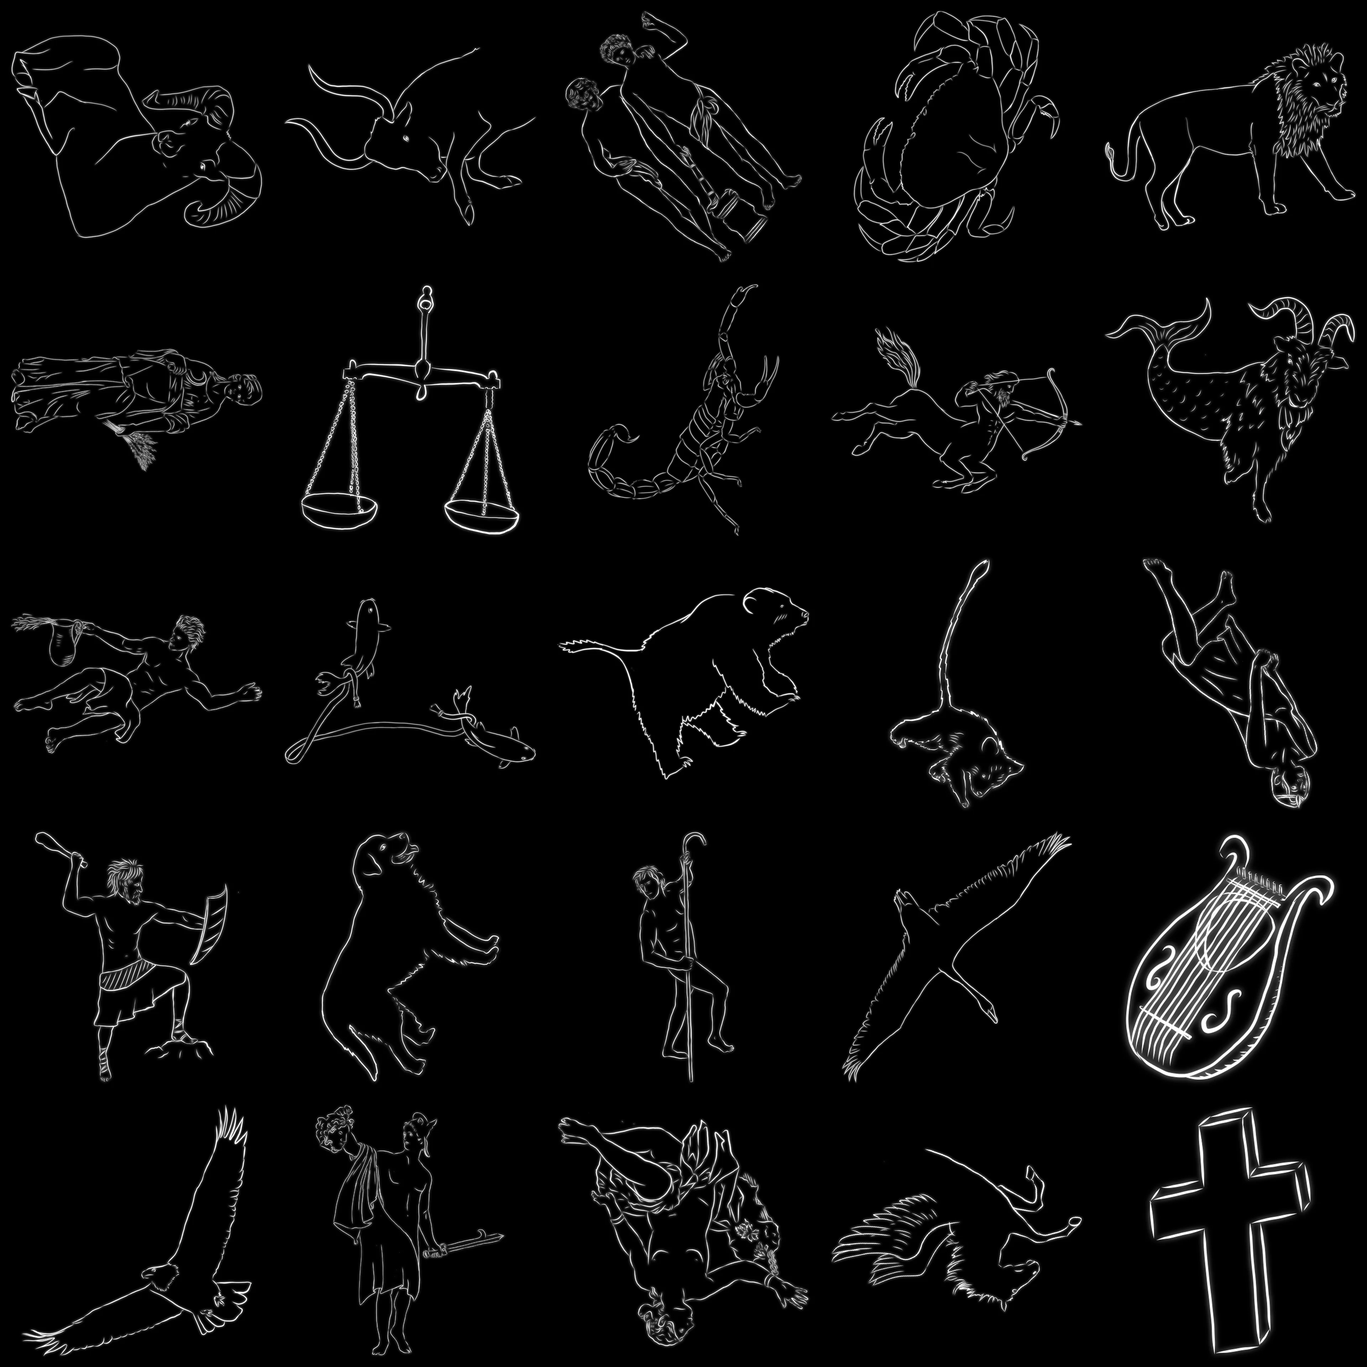
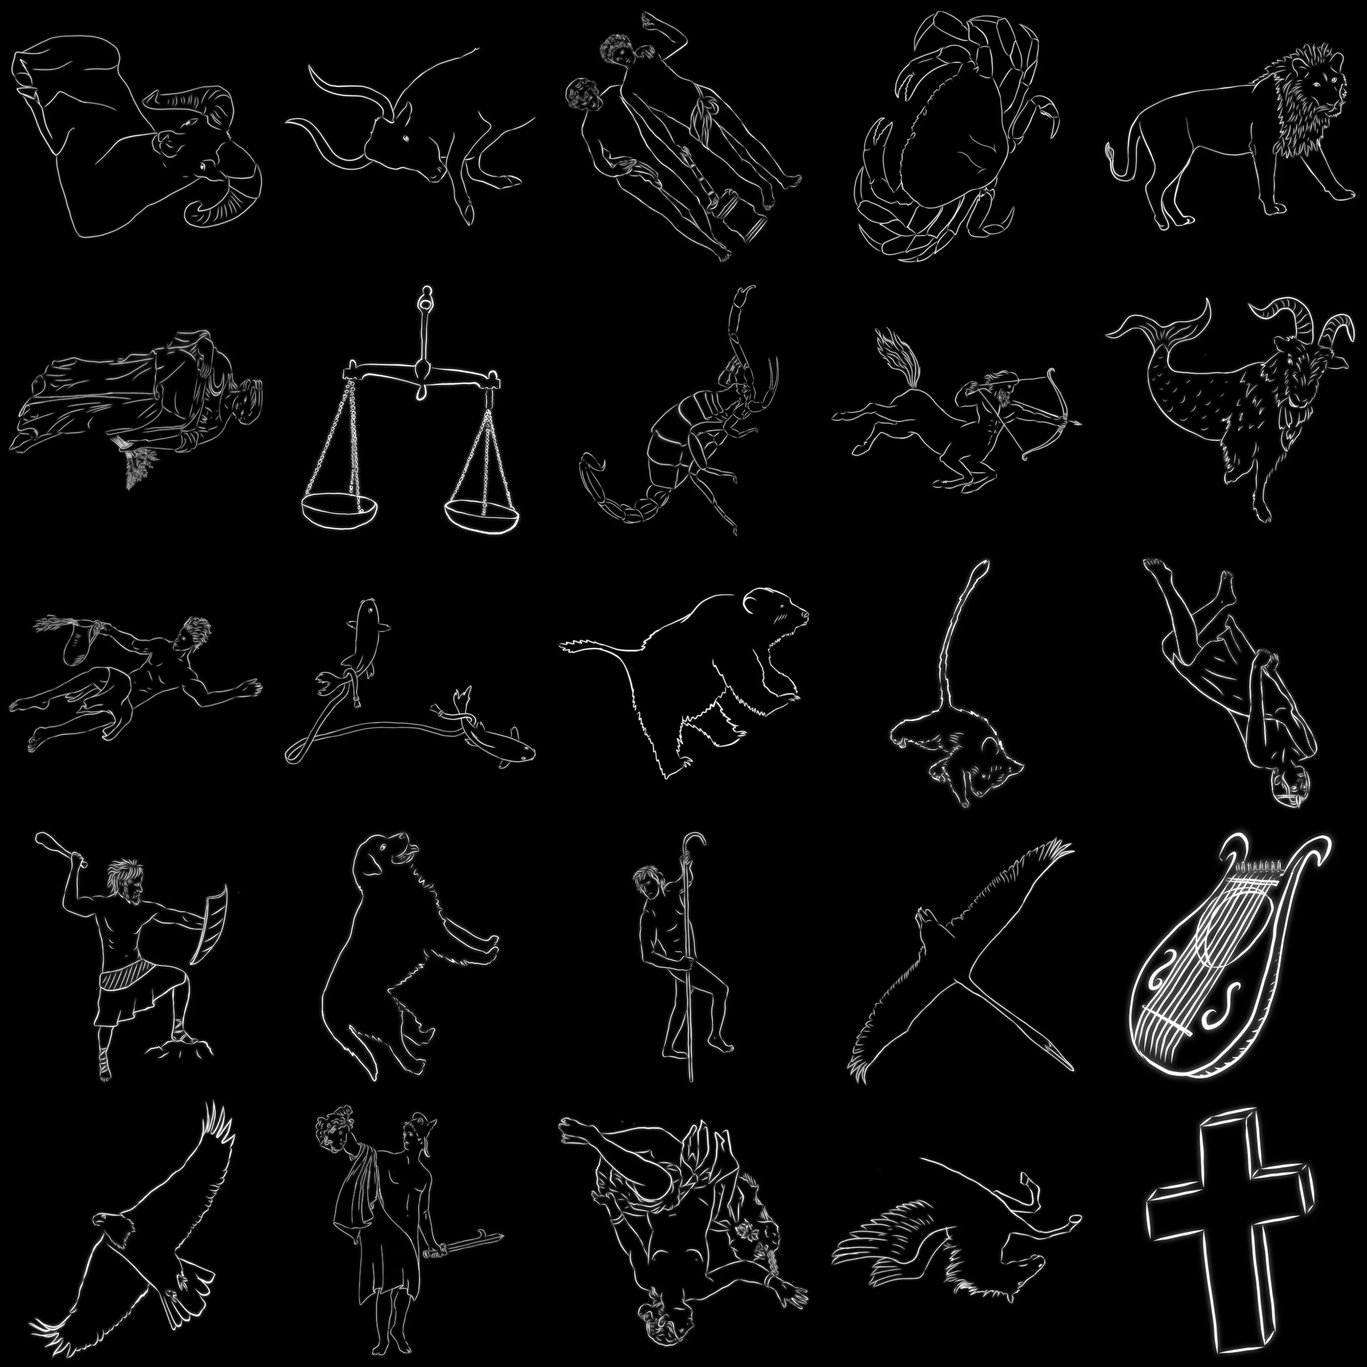
feat(sky): hand-match eight of Hedberg's figures to their stars, keeping the drawings (#127)
'so many are just off', and 'I really prefer the current set.' Measured figure by figure, the ones that were off were off because the drawings' proportions are not the sky's -- a short-necked swan, a tail that curls back, wings three times too long -- and no placement fixes a proportion. So those figures are matched by hand: scripts/figure-matching.json names landmarks on each drawing and the star each must sit on, and the build applies a thin-plate spline that moves the landmarks and bends the rest of the drawing with them, with pins holding what already sits right and the crop following the reshaped ink.

Scorpius 0.68 to 0.28 degrees with the sting on Shaula; Cygnus 2.04 to 0.47 with Deneb at the tail and Albireo at the beak; Aquila's Altair from 1.34 to 0.09 at the head; Virgo, Crux, Lyra, Aquarius and Pegasus likewise. Seventeen figures were checked by anatomy and left alone. Every match prints its largest local stretch and the build refuses one over x3.5. The Bayer parser now keeps names with an inner space, 'Mu 1Sco', which it used to drop.

diff --git a/site/src/data/figures.js b/site/src/data/figures.js
@@ -11,9 +11,11 @@
 // The galactic conversion, GLM's Euler convention, the plane maths
 // and the crop all happened in the build script, where they could
 // be checked against this app's own star catalogue. The atlas stores
-// the ink as brightness on black; the app draws it additively.
+// the ink as brightness on black; the app draws it additively. Some
+// drawings are hand-matched to their stars (see figure-matching.json):
+// their tiles are reshaped and their corners follow the reshaped ink.
 //
 // Artwork: James Hedberg (CUNY-CCNY), CC BY 4.0.
 export const FIGURE_TILE = 768;
 export const FIGURE_COLS = 5;
-export const FIGURES = [{"a":"Ari","n":"Aries","i":0,"c":[[0.609548,0.609323,0.64085],[0.840153,0.331852,0.5369],[0.855481,0.47457,0.189954],[0.624876,0.752041,0.293905]]},{"a":"Tau","n":"Taurus","i":1,"c":[[0.070456,0.859002,0.585838],[0.607533,0.740666,0.604807],[0.659568,0.892455,0.078435],[0.122491,1.010791,0.059466]]},{"a":"Gem","n":"Gemini","i":2,"c":[[-0.408998,0.691031,0.577213],[-0.076036,0.903095,0.632868],[-0.106459,1.048004,0.262722],[-0.439421,0.83594,0.207067]]},{"a":"Cnc","n":"Cancer","i":3,"c":[[-0.726669,0.530032,0.621825],[-0.278863,0.856476,0.546848],[-0.436893,0.952024,0.019009],[-0.884698,0.62558,0.093986]]},{"a":"Leo","n":"Leo","i":4,"c":[[-0.951124,0.021242,0.646291],[-0.685115,0.554686,0.534228],[-0.909218,0.548046,-0.029346],[-1.175228,0.014602,0.082717]]},{"a":"Vir","n":"Virgo","i":5,"c":[[-0.780463,-0.75377,0.308102],[-0.945147,0.076184,0.349344],[-1.038294,0.099526,-0.492335],[-0.873611,-0.730428,-0.533577]]},{"a":"Lib","n":"Libra","i":6,"c":[[-0.491927,-0.852549,-0.145956],[-0.776682,-0.632606,-0.133503],[-0.743482,-0.569641,-0.486418],[-0.458728,-0.789584,-0.498871]]},{"a":"Sco","n":"Scorpius","i":7,"c":[[0.04317,-1.060836,-0.165577],[-0.67988,-0.948342,-0.13999],[-0.644872,-0.579662,-0.771622],[0.078178,-0.692156,-0.79721]]},{"a":"Sgr","n":"Sagittarius","i":8,"c":[[0.646114,-0.969303,-0.357703],[0.07328,-0.996382,-0.189059],[-0.086223,-0.700454,-0.683325],[0.486612,-0.673374,-0.851969]]},{"a":"Cap","n":"Capricornus","i":9,"c":[[0.887475,-0.556537,-0.062794],[0.470739,-0.783712,-0.140459],[0.533606,-0.736815,-0.614967],[0.950342,-0.509639,-0.537302]]},{"a":"Aqr","n":"Aquarius","i":10,"c":[[1.054241,-0.29189,0.148242],[0.775506,-0.80876,0.195666],[0.568691,-0.747532,-0.352582],[0.847426,-0.230662,-0.400005]]},{"a":"Psc","n":"Pisces","i":11,"c":[[0.72837,0.545468,0.630214],[0.962485,-0.220649,0.657842],[1.16155,-0.187793,-0.117918],[0.927435,0.578324,-0.145546]]},{"a":"UMa","n":"Ursa Major","i":12,"c":[[-0.304622,-0.387385,0.982202],[-0.110352,0.491611,0.995506],[-0.907664,0.673527,0.619006],[-1.101935,-0.205469,0.605702]]},{"a":"UMi","n":"Ursa Minor","i":13,"c":[[0.18996,-0.162051,0.985159],[-0.079381,0.131081,1.021494],[-0.374119,-0.132407,0.962373],[-0.104777,-0.425539,0.926039]]},{"a":"Cas","n":"Cassiopeia","i":14,"c":[[0.337297,0.322571,0.971837],[0.321499,-0.11229,0.998673],[0.676879,-0.140688,0.747729],[0.692678,0.294174,0.720893]]},{"a":"Ori","n":"Orion","i":15,"c":[[-0.177642,1.002418,0.322829],[0.422743,1.000812,0.316925],[0.416805,0.988039,-0.283326],[-0.183579,0.989645,-0.277421]]},{"a":"CMa","n":"Canis Major","i":16,"c":[[-0.365301,0.941291,-0.204765],[-0.011543,0.974023,-0.192985],[0.006611,0.903002,-0.540809],[-0.347147,0.87027,-0.552589]]},{"a":"Boo","n":"Bootes","i":17,"c":[[-0.258574,-0.67661,0.809977],[-0.79453,-0.203677,0.888018],[-1.074852,-0.417973,0.261519],[-0.538896,-0.890906,0.183477]]},{"a":"Cyg","n":"Cygnus","i":18,"c":[[0.537655,-0.269177,0.904643],[-0.035308,-0.692135,0.884623],[0.260977,-1.068538,0.357254],[0.833941,-0.64558,0.377275]]},{"a":"Lyr","n":"Lyra","i":19,"c":[[0.201642,-0.697746,0.624327],[0.090319,-0.784296,0.646415],[0.125101,-0.858807,0.529752],[0.236425,-0.772257,0.507664]]},{"a":"Aql","n":"Aquila","i":20,"c":[[0.583778,-0.675346,0.492563],[0.158662,-0.967548,0.434201],[0.267119,-1.02458,-0.070275],[0.692235,-0.732378,-0.011913]]},{"a":"Per","n":"Perseus","i":21,"c":[[0.134311,0.555449,0.890123],[0.569217,0.230634,0.782626],[0.783349,0.624638,0.458418],[0.348443,0.949453,0.565914]]},{"a":"And","n":"Andromeda","i":22,"c":[[0.618538,0.487248,0.695278],[0.585984,0.016034,0.995342],[0.915528,-0.24287,0.624517],[0.948082,0.228345,0.324453]]},{"a":"Peg","n":"Pegasus","i":23,"c":[[1.040902,0.041774,0.876612],[0.522388,-0.679756,0.687549],[0.732104,-0.599812,-0.192698],[1.250618,0.121717,-0.003634]]},{"a":"Cru","n":"Crux","i":24,"c":[[-0.549933,-0.168158,-0.823079],[-0.568644,0.016882,-0.798216],[-0.419671,0.046741,-0.908323],[-0.40096,-0.138299,-0.933186]]}];
+export const FIGURES = [{"a":"Ari","n":"Aries","i":0,"c":[[0.609548,0.609323,0.64085],[0.840153,0.331852,0.5369],[0.855481,0.47457,0.189954],[0.624876,0.752041,0.293905]]},{"a":"Tau","n":"Taurus","i":1,"c":[[0.070456,0.859002,0.585838],[0.607533,0.740666,0.604807],[0.659568,0.892455,0.078435],[0.122491,1.010791,0.059466]]},{"a":"Gem","n":"Gemini","i":2,"c":[[-0.408998,0.691031,0.577213],[-0.076036,0.903095,0.632868],[-0.106459,1.048004,0.262722],[-0.439421,0.83594,0.207067]]},{"a":"Cnc","n":"Cancer","i":3,"c":[[-0.726669,0.530032,0.621825],[-0.278863,0.856476,0.546848],[-0.436893,0.952024,0.019009],[-0.884698,0.62558,0.093986]]},{"a":"Leo","n":"Leo","i":4,"c":[[-0.951124,0.021242,0.646291],[-0.685115,0.554686,0.534228],[-0.909218,0.548046,-0.029346],[-1.175228,0.014602,0.082717]]},{"a":"Vir","n":"Virgo","i":5,"c":[[-0.777131,-0.765499,0.317088],[-0.928279,-0.003761,0.35494],[-1.01377,0.017662,-0.41756],[-0.862622,-0.744076,-0.455411]]},{"a":"Lib","n":"Libra","i":6,"c":[[-0.491927,-0.852549,-0.145956],[-0.776682,-0.632606,-0.133503],[-0.743482,-0.569641,-0.486418],[-0.458728,-0.789584,-0.498871]]},{"a":"Sco","n":"Scorpius","i":7,"c":[[0.040289,-1.061415,-0.163744],[-0.684707,-0.948618,-0.138088],[-0.649605,-0.578945,-0.771421],[0.075391,-0.691742,-0.797078]]},{"a":"Sgr","n":"Sagittarius","i":8,"c":[[0.646114,-0.969303,-0.357703],[0.07328,-0.996382,-0.189059],[-0.086223,-0.700454,-0.683325],[0.486612,-0.673374,-0.851969]]},{"a":"Cap","n":"Capricornus","i":9,"c":[[0.887475,-0.556537,-0.062794],[0.470739,-0.783712,-0.140459],[0.533606,-0.736815,-0.614967],[0.950342,-0.509639,-0.537302]]},{"a":"Aqr","n":"Aquarius","i":10,"c":[[1.085282,-0.248548,0.161614],[0.780661,-0.813419,0.213441],[0.554639,-0.746504,-0.385721],[0.859261,-0.181634,-0.437549]]},{"a":"Psc","n":"Pisces","i":11,"c":[[0.72837,0.545468,0.630214],[0.962485,-0.220649,0.657842],[1.16155,-0.187793,-0.117918],[0.927435,0.578324,-0.145546]]},{"a":"UMa","n":"Ursa Major","i":12,"c":[[-0.304622,-0.387385,0.982202],[-0.110352,0.491611,0.995506],[-0.907664,0.673527,0.619006],[-1.101935,-0.205469,0.605702]]},{"a":"UMi","n":"Ursa Minor","i":13,"c":[[0.18996,-0.162051,0.985159],[-0.079381,0.131081,1.021494],[-0.374119,-0.132407,0.962373],[-0.104777,-0.425539,0.926039]]},{"a":"Cas","n":"Cassiopeia","i":14,"c":[[0.337297,0.322571,0.971837],[0.321499,-0.11229,0.998673],[0.676879,-0.140688,0.747729],[0.692678,0.294174,0.720893]]},{"a":"Ori","n":"Orion","i":15,"c":[[-0.177642,1.002418,0.322829],[0.422743,1.000812,0.316925],[0.416805,0.988039,-0.283326],[-0.183579,0.989645,-0.277421]]},{"a":"CMa","n":"Canis Major","i":16,"c":[[-0.365301,0.941291,-0.204765],[-0.011543,0.974023,-0.192985],[0.006611,0.903002,-0.540809],[-0.347147,0.87027,-0.552589]]},{"a":"Boo","n":"Bootes","i":17,"c":[[-0.258574,-0.67661,0.809977],[-0.79453,-0.203677,0.888018],[-1.074852,-0.417973,0.261519],[-0.538896,-0.890906,0.183477]]},{"a":"Cyg","n":"Cygnus","i":18,"c":[[0.535953,-0.338664,0.842934],[0.131684,-0.637093,0.828808],[0.340736,-0.902673,0.45671],[0.745005,-0.604245,0.470836]]},{"a":"Lyr","n":"Lyra","i":19,"c":[[0.202759,-0.694822,0.626327],[0.087218,-0.784651,0.649252],[0.123318,-0.861984,0.52817],[0.238859,-0.772155,0.505245]]},{"a":"Aql","n":"Aquila","i":20,"c":[[0.580616,-0.682681,0.471756],[0.044963,-1.05086,0.398219],[0.181621,-1.122721,-0.237428],[0.717274,-0.754543,-0.163892]]},{"a":"Per","n":"Perseus","i":21,"c":[[0.134311,0.555449,0.890123],[0.569217,0.230634,0.782626],[0.783349,0.624638,0.458418],[0.348443,0.949453,0.565914]]},{"a":"And","n":"Andromeda","i":22,"c":[[0.618538,0.487248,0.695278],[0.585984,0.016034,0.995342],[0.915528,-0.24287,0.624517],[0.948082,0.228345,0.324453]]},{"a":"Peg","n":"Pegasus","i":23,"c":[[1.034344,0.038369,0.900054],[0.502619,-0.701543,0.706174],[0.717679,-0.619562,-0.196499],[1.249403,0.12035,-0.002619]]},{"a":"Cru","n":"Crux","i":24,"c":[[-0.530793,-0.133954,-0.835451],[-0.542647,-0.016721,-0.819698],[-0.448265,0.002197,-0.889457],[-0.43641,-0.115036,-0.90521]]}];

diff --git a/site/sw.js b/site/sw.js
@@ -17,7 +17,7 @@
 //
 // This is a CACHE KEY, not the release stamp. build-version.json stays where
 // it is; the build advances once per release on the default branch.
-const VERSION = '0.0.0.1.23';
+const VERSION = '0.0.0.1.24';
 const CACHE = `evo-polaris-${VERSION}`;
 
 const ASSETS = [

diff --git a/scripts/build-constellation-art.py b/scripts/build-constellation-art.py
@@ -122,12 +122,45 @@ THE CORNERS ARE NOT UNIT VECTORS, ON PURPOSE
     tick rotates the corners into the horizontal frame and keeps their
     lengths, for the same reason.
 
+HAND-MATCHED, WHERE THE DRAWING'S PROPORTIONS ARE NOT THE SKY'S
+
+    Hedberg drew figures, not star charts, and a few of them are not
+    proportioned like their stars: his swan's neck is short where the sky's
+    is long (Sadr is 6 degrees from Deneb and 16 from Albireo), his
+    scorpion's tail curls back to within 8 degrees of the body where Shaula
+    is 18 out, his eagle's wings are three times too long for its body. No
+    placement fixes a proportion -- a rigid fit that puts the sting on
+    Shaula doubles the scorpion, and a sheared one smears it -- and a refit
+    over all 84 figures moved the mean star-to-ink distance from 1.78 to
+    1.76 degrees, which is nothing. "so many are just off."
+
+    So those figures are matched BY HAND, the way an artist would redraw a
+    tail that stops short: figure-matching.json names landmarks on each
+    drawing (the sting's tip, the swan's beak, the eagle's neck) and the
+    star each must sit on, and a thin-plate spline moves the landmarks and
+    bends the rest of the drawing smoothly with them. Pins hold the parts
+    that already sit right, so a stretched tail does not drag the claws
+    along. The crop then follows the ink on the same plane, so a drawing
+    that grew to reach its stars keeps its resolution.
+
+    Every match prints how far it stretched any part of the drawing, and
+    MAX_STRETCH refuses one that asks too much. Eight of the twenty-five
+    are matched; the other seventeen already sit on their stars -- checked
+    one by one against the stars the app draws lines between, by anatomy
+    as well as by number, because a star correctly inside an outlined body
+    counts as far from ink and would fool the number alone.
+
+    The landmarks are read off the tile as this script crops it. Change
+    MARGIN or the crop rule, and they have to be read again.
+
 AND IT IS CHECKED, NOT ASSUMED
 
     A figure drawn upside down or half a sky away is worse than no figure.
     Every quad is tested against the app's OWN star catalogue: the
     constellation's brightest stars must fall inside it. Anything that fails
     is reported and the build stops.
+
+    Needs Pillow, numpy and scipy; all three are build-time only.
 """
 import argparse
 import csv
@@ -139,11 +172,14 @@ import sys
 import urllib.request
 from pathlib import Path
 
+import numpy as np
 from PIL import Image, ImageChops
+from scipy.ndimage import map_coordinates      # the hand-matching resample; build-time only
 
 ROOT = Path(__file__).resolve().parent.parent
 OUT_IMG = ROOT / "site" / "src" / "data" / "figures.webp"
 OUT_JS = ROOT / "site" / "src" / "data" / "figures.js"
+MATCHING = ROOT / "scripts" / "figure-matching.json"
 
 MANIFEST = ("http://data.openspaceproject.com/request"
             "?identifier=constellation_images&file_version=4&application_version=1")
@@ -170,6 +206,10 @@ TILE = 768
 COLS = 5
 MARGIN = 0.04       # of the ink's span, added on each side of the crop
 QUALITY = 85
+# How far a hand-match may stretch any part of a drawing before the build
+# refuses it. Scorpius's tail reaches its sting at x3.2; a drawing that
+# needs more than this is being pulled into a shape it was never drawn in.
+MAX_STRETCH = 3.5
 
 DEG = math.pi / 180
 # Galactic north pole and the galactic longitude of the ascending node, J2000.
@@ -297,6 +337,108 @@ def ink_box(img):
     return (x0, y0, x0 + round(side), y0 + round(side))
 
 
+def plane_of(corners):
+    """The plane the four corners are points of: centre and half-axes."""
+    tl, tr, br, bl = [np.array(c, dtype=float) for c in corners]
+    return (tl + tr + br + bl) / 4, (tr - tl) / 2, (tl - bl) / 2
+
+
+def star_on_tile(corners, star):
+    """Where a star's ray meets the figure's plane, as (u, v) of its tile."""
+    C, ex, ey = plane_of(corners)
+    n = np.cross(ex, ey)
+    den = float(np.dot(star, n))
+    if abs(den) < 1e-12:
+        return None
+    t = float(np.dot(C, n)) / den
+    if t <= 0:
+        return None
+    q = np.asarray(star, dtype=float) * t - C
+    return np.array([(float(np.dot(q, ex)) / float(np.dot(ex, ex)) + 1) / 2,
+                     (1 - float(np.dot(q, ey)) / float(np.dot(ey, ey))) / 2])
+
+
+def tps_fit(src, dst):
+    """A thin-plate spline taking the points src onto dst: the smoothest map that does."""
+    n = len(src)
+    r2 = ((src[:, None, :] - src[None, :, :]) ** 2).sum(-1)
+    K = np.where(r2 > 0, r2 * np.log(np.sqrt(r2) + 1e-12), 0.0)
+    P = np.hstack([np.ones((n, 1)), src])
+    L = np.zeros((n + 3, n + 3))
+    L[:n, :n], L[:n, n:], L[n:, :n] = K, P, P.T
+    rhs = np.zeros((n + 3, 2))
+    rhs[:n] = dst
+    return src, np.linalg.solve(L, rhs)
+
+
+def tps_apply(spline, pts):
+    src, W = spline
+    r2 = ((pts[:, None, :] - src[None, :, :]) ** 2).sum(-1)
+    U = np.where(r2 > 0, r2 * np.log(np.sqrt(r2) + 1e-12), 0.0)
+    return U @ W[:len(src)] + W[len(src)] + pts @ W[len(src) + 1:]
+
+
+def hand_match(tile, corners, controls, stars_by_greek):
+    """Move the drawing's landmarks onto their stars and bend the rest with them.
+
+    tile is the cropped, resized drawing; corners its plane corners; controls
+    the figure's entry in figure-matching.json; stars_by_greek the
+    constellation's stars by Bayer letter. Returns the reshaped tile, its new
+    corners (the crop follows the ink, on the same plane), how far any part
+    of the drawing was stretched, and how much the crop grew.
+    """
+    A = np.asarray(tile, dtype=float)
+    n = A.shape[0]
+    src = np.array([[u, v] for u, v, _ in controls], dtype=float)
+    dst = []
+    for u, v, target in controls:
+        if isinstance(target, list):
+            dst.append(target)
+        else:
+            star = stars_by_greek.get(target)
+            if star is None:
+                raise ValueError(f"no star '{target}' in the catalogue for this figure")
+            uv = star_on_tile(corners, star)
+            if uv is None:
+                raise ValueError(f"star '{target}' is behind the figure's plane")
+            dst.append(uv)
+    dst = np.array(dst, dtype=float)
+    forward, inverse = tps_fit(src, dst), tps_fit(dst, src)
+
+    # THE CROP FOLLOWS THE INK. Push the ink through the spline to see where
+    # it lands, and cut the new tile around that: a drawing that had to grow
+    # to reach its stars gets a bigger piece of the plane, one that shrank
+    # keeps its resolution.
+    ys, xs = np.nonzero(A > 8)
+    landed = tps_apply(forward, np.column_stack([(xs + 0.5) / n, (ys + 0.5) / n])[::5])
+    lo, hi = landed.min(0), landed.max(0)
+    side = float((hi - lo).max()) * (1 + 2 * MARGIN)
+    box0 = (lo + hi) / 2 - side / 2
+
+    gv, gu = np.mgrid[0:n, 0:n]
+    target = box0 + np.column_stack([(gu.ravel() + 0.5) / n, (gv.ravel() + 0.5) / n]) * side
+    source = tps_apply(inverse, target)
+    out = map_coordinates(A, np.array([source[:, 1] * n - 0.5, source[:, 0] * n - 0.5]),
+                          order=1, mode="constant", cval=0.0).reshape(n, n)
+
+    # The honesty number: the largest local stretch, from the spline's
+    # Jacobian at the pixels that carry ink.
+    du = tps_apply(inverse, target + np.array([1e-3, 0.0])) - source
+    dv = tps_apply(inverse, target + np.array([0.0, 1e-3])) - source
+    sv = np.linalg.svd(np.stack([du, dv], -1) / 1e-3, compute_uv=False)
+    inked = out.ravel() > 8
+    stretch = float((1 / sv[inked].min(axis=1)).max()) if inked.any() else 1.0
+
+    C, ex, ey = plane_of(corners)
+    def at(u, v):
+        p = C + (2 * u - 1) * ex + (1 - 2 * v) * ey
+        return (float(p[0]), float(p[1]), float(p[2]))
+    u0, v0 = float(box0[0]), float(box0[1])
+    u1, v1 = u0 + side, v0 + side
+    new_corners = [at(u0, v0), at(u1, v0), at(u1, v1), at(u0, v1)]
+    return Image.fromarray(np.clip(out, 0, 255).astype(np.uint8)), new_corners, stretch, side
+
+
 def inside(corners, v):
     """Is direction v inside the spherical quad? Same-side test on each edge."""
     sign = None
@@ -346,19 +488,31 @@ def main() -> int:
     # constellation is the Bayer name's last field, which is the only place
     # this catalogue records it.
     stars = json.loads((ROOT / "site" / "src" / "data" / "stars.json").read_text())
-    by_con = {}
+    by_con, by_greek = {}, {}
     for row in stars:
         if len(row) < 6 or not row[5]:
             continue
+        # The constellation is always the field's last three characters:
+        # "9Alp CMa", "9Alp2Lib", "Mu 1Sco". Splitting on the space lost the
+        # last of those, and with it every star of a doubled Bayer letter.
         name = row[5].strip()
-        con = name.split()[-1] if " " in name else name[-3:]
-        if len(con) != 3:
+        con = name[-3:]
+        if len(name) < 4 or not con.isalpha():
             continue
         ra, dec, mag = float(row[0]), float(row[1]), float(row[2])
         v = (math.cos(dec * DEG) * math.cos(ra * DEG),
              math.cos(dec * DEG) * math.sin(ra * DEG),
              math.sin(dec * DEG))
         by_con.setdefault(con, []).append((mag, v))
+        # The Bayer letter, for the hand-matching: "9Alp CMa" and "9Alp2Lib"
+        # both give "Alp". The brightest star of a letter wins.
+        greek = "".join(ch for ch in name[:-3] if not ch.isdigit()).strip()
+        key = (con, greek)
+        if greek and (key not in by_greek or mag < by_greek[key][0]):
+            by_greek[key] = (mag, v)
+
+    matching = {k: v for k, v in json.loads(MATCHING.read_text(encoding="utf-8")).items()
+                if not k.startswith("_")}
 
     placements, bad = [], []
     atlas_rows = math.ceil(len(SELECTED) / COLS)
@@ -374,6 +528,21 @@ def main() -> int:
         uv = tuple(c / raw.width for c in box)
         corners = corners_for(row, uv)
 
+        # The ink as brightness: the drawing's own grey through its alpha.
+        crop = raw.crop(box)
+        ink = ImageChops.multiply(crop.convert("L"), crop.split()[3]).resize((TILE, TILE), Image.LANCZOS)
+        span = box[2] - box[0]
+        note = f"ink {span / raw.width:4.0%} of the tile"
+
+        # HAND-MATCHED, where the drawing's proportions are not the sky's.
+        if abbr in matching:
+            stars = {g: v for (c, g), (_, v) in by_greek.items() if c == abbr}
+            ink, corners, stretch, grown = hand_match(ink, corners, matching[abbr], stars)
+            note += f"; hand-matched on {len(matching[abbr])} points, stretched x{stretch:.2f}, crop x{grown:.2f}"
+            if stretch > MAX_STRETCH:
+                bad.append(f"{abbr}: hand-matching stretches the drawing x{stretch:.2f}, "
+                           f"more than the x{MAX_STRETCH} allowed")
+
         # CHECK: the constellation's three brightest stars should be inside.
         cands = sorted(by_con.get(abbr, []))[:3]
         if not cands:
@@ -383,11 +552,7 @@ def main() -> int:
             if hits == 0:
                 bad.append(f"{abbr}: none of its {len(cands)} brightest stars fall inside")
 
-        # The ink as brightness: the drawing's own grey through its alpha.
-        crop = raw.crop(box)
-        ink = ImageChops.multiply(crop.convert("L"), crop.split()[3])
-        atlas.paste(ink.resize((TILE, TILE), Image.LANCZOS),
-                    ((i % COLS) * TILE, (i // COLS) * TILE))
+        atlas.paste(ink, ((i % COLS) * TILE, (i // COLS) * TILE))
 
         placements.append({
             "a": abbr,
@@ -395,8 +560,7 @@ def main() -> int:
             "i": i,
             "c": [[round(c, 6) for c in v] for v in corners],
         })
-        span = box[2] - box[0]
-        print(f"  {i + 1:3}/{len(SELECTED)}  {abbr:4} {row[2]:18} ink {span / raw.width:4.0%} of the tile")
+        print(f"  {i + 1:3}/{len(SELECTED)}  {abbr:4} {row[2]:18} {note}")
 
     if bad:
         print("\nPLACEMENT CHECK FAILED -- a figure in the wrong place is worse "
@@ -421,7 +585,9 @@ def main() -> int:
         "// The galactic conversion, GLM's Euler convention, the plane maths\n"
         "// and the crop all happened in the build script, where they could\n"
         "// be checked against this app's own star catalogue. The atlas stores\n"
-        "// the ink as brightness on black; the app draws it additively.\n"
+        "// the ink as brightness on black; the app draws it additively. Some\n"
+        "// drawings are hand-matched to their stars (see figure-matching.json):\n"
+        "// their tiles are reshaped and their corners follow the reshaped ink.\n"
         "//\n"
         "// Artwork: James Hedberg (CUNY-CCNY), CC BY 4.0.\n"
         f"export const FIGURE_TILE = {TILE};\n"
